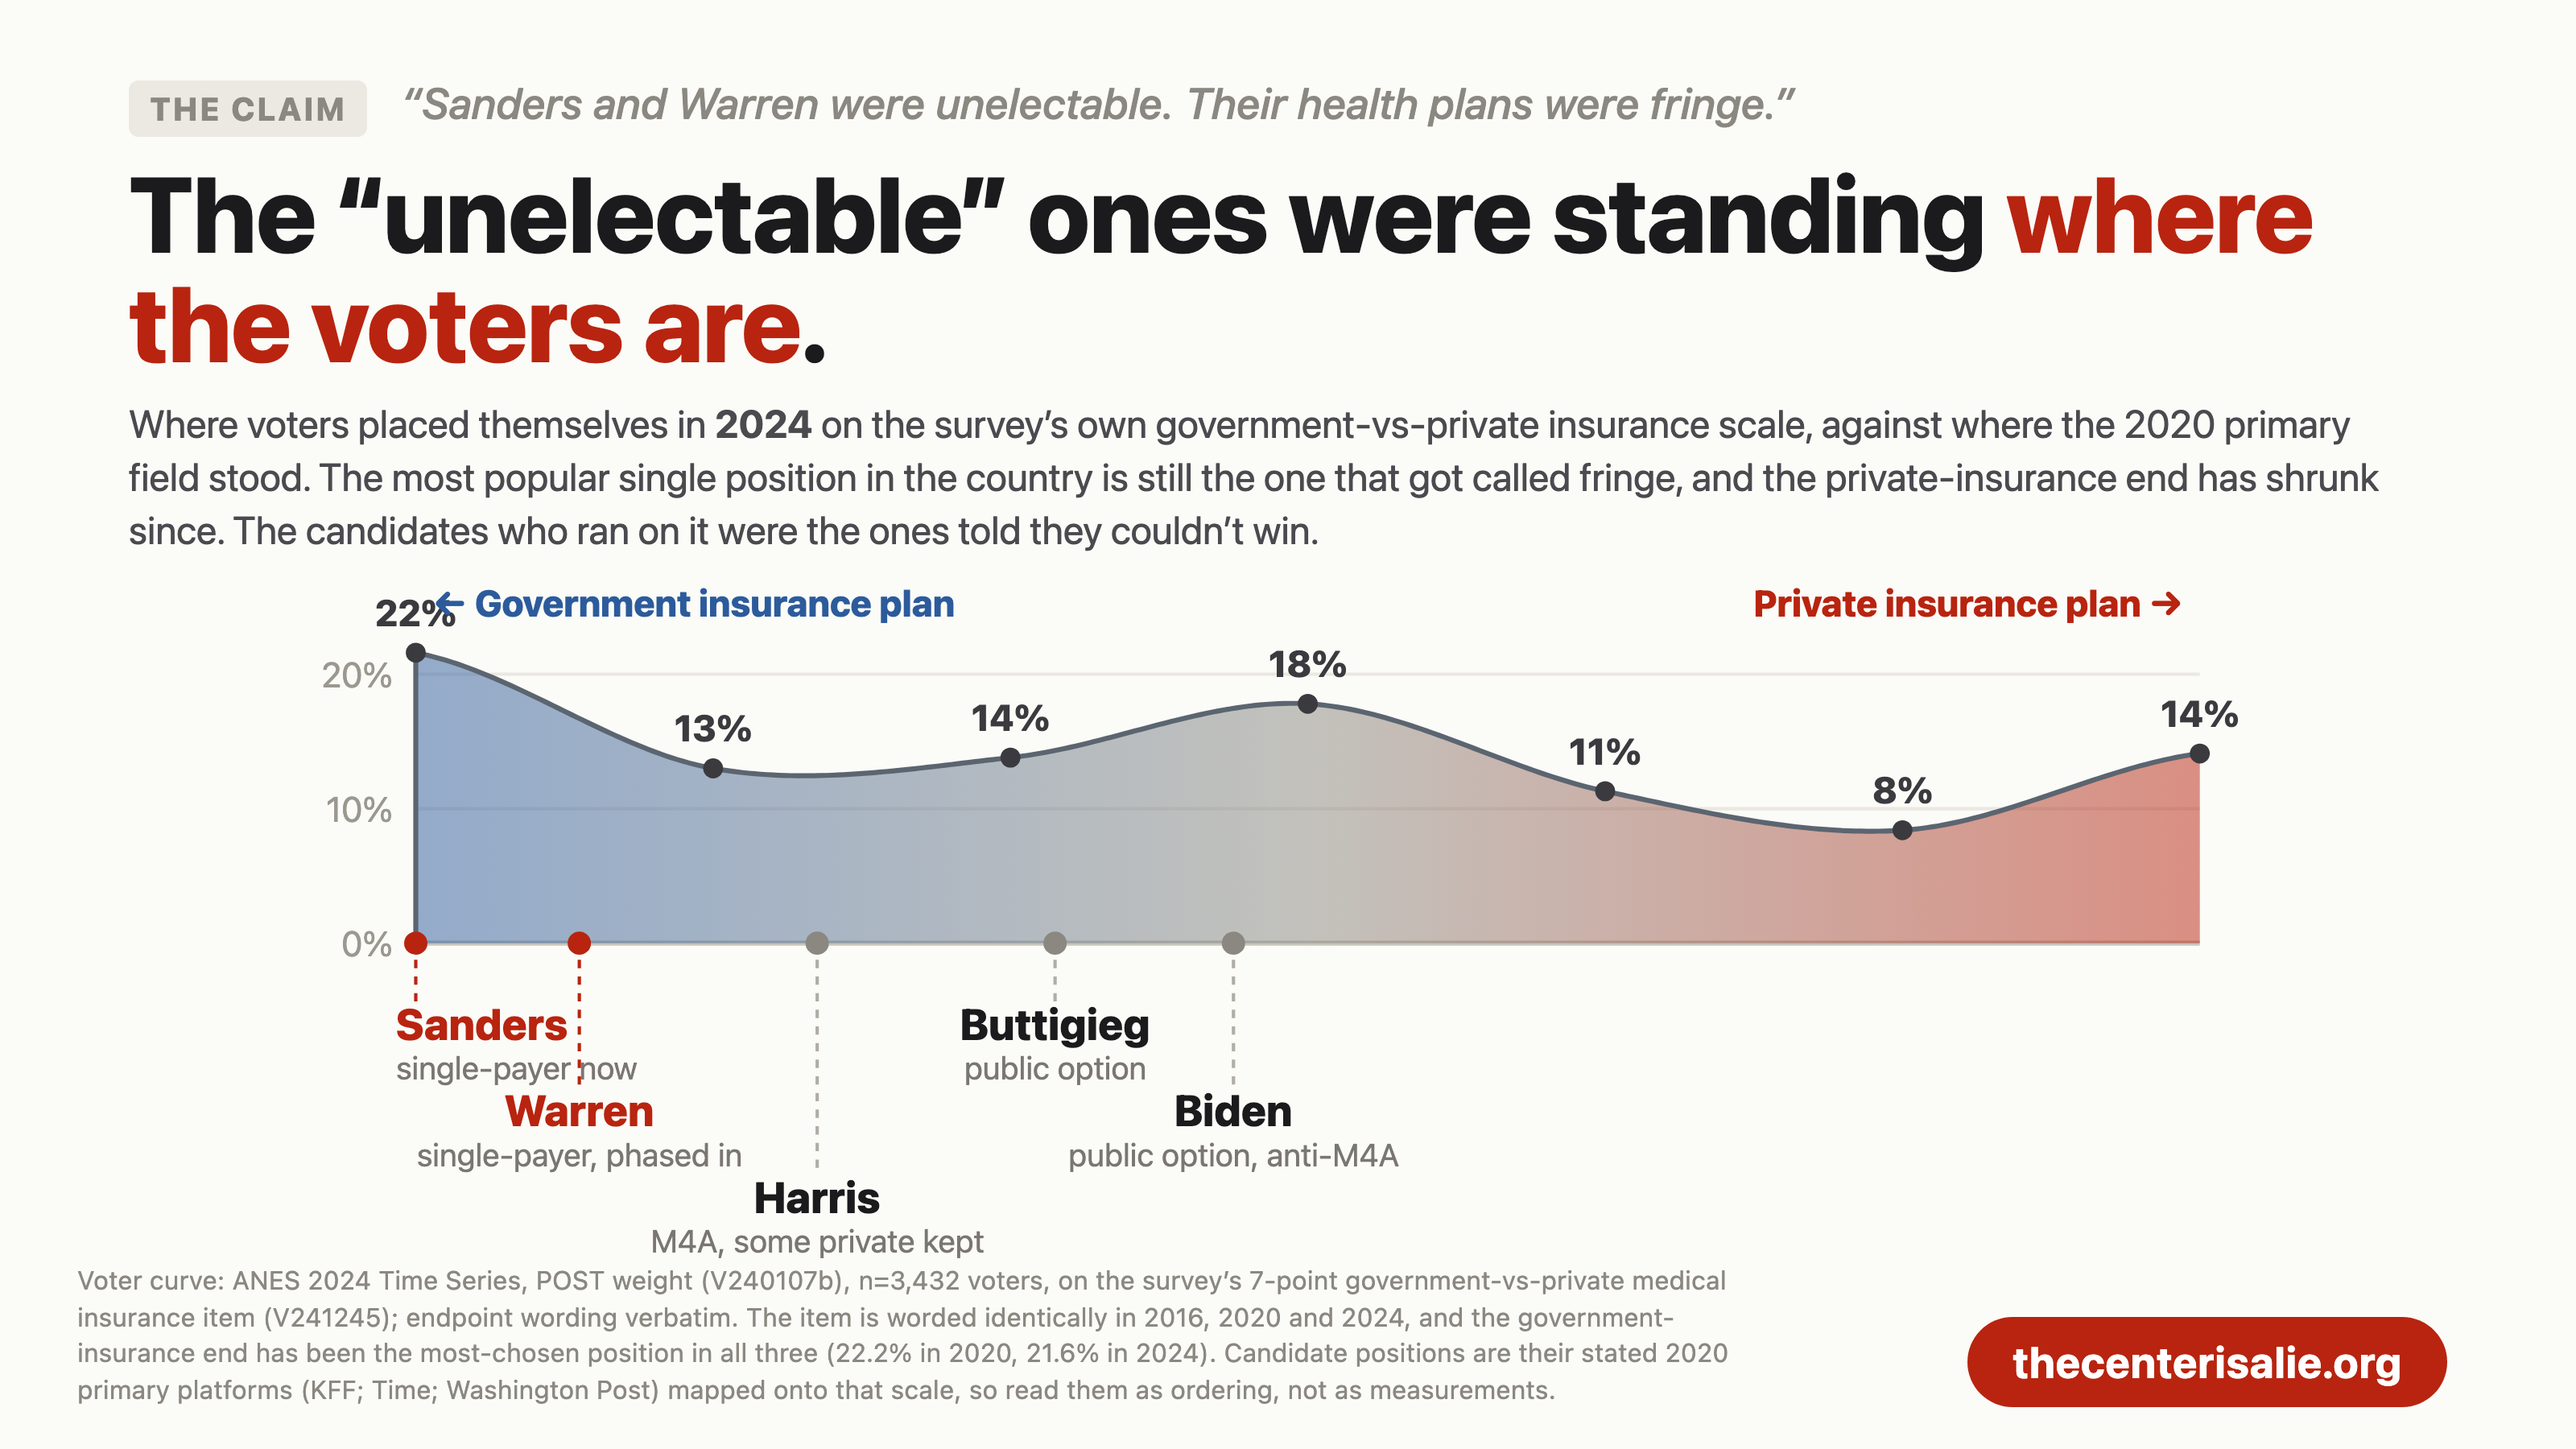
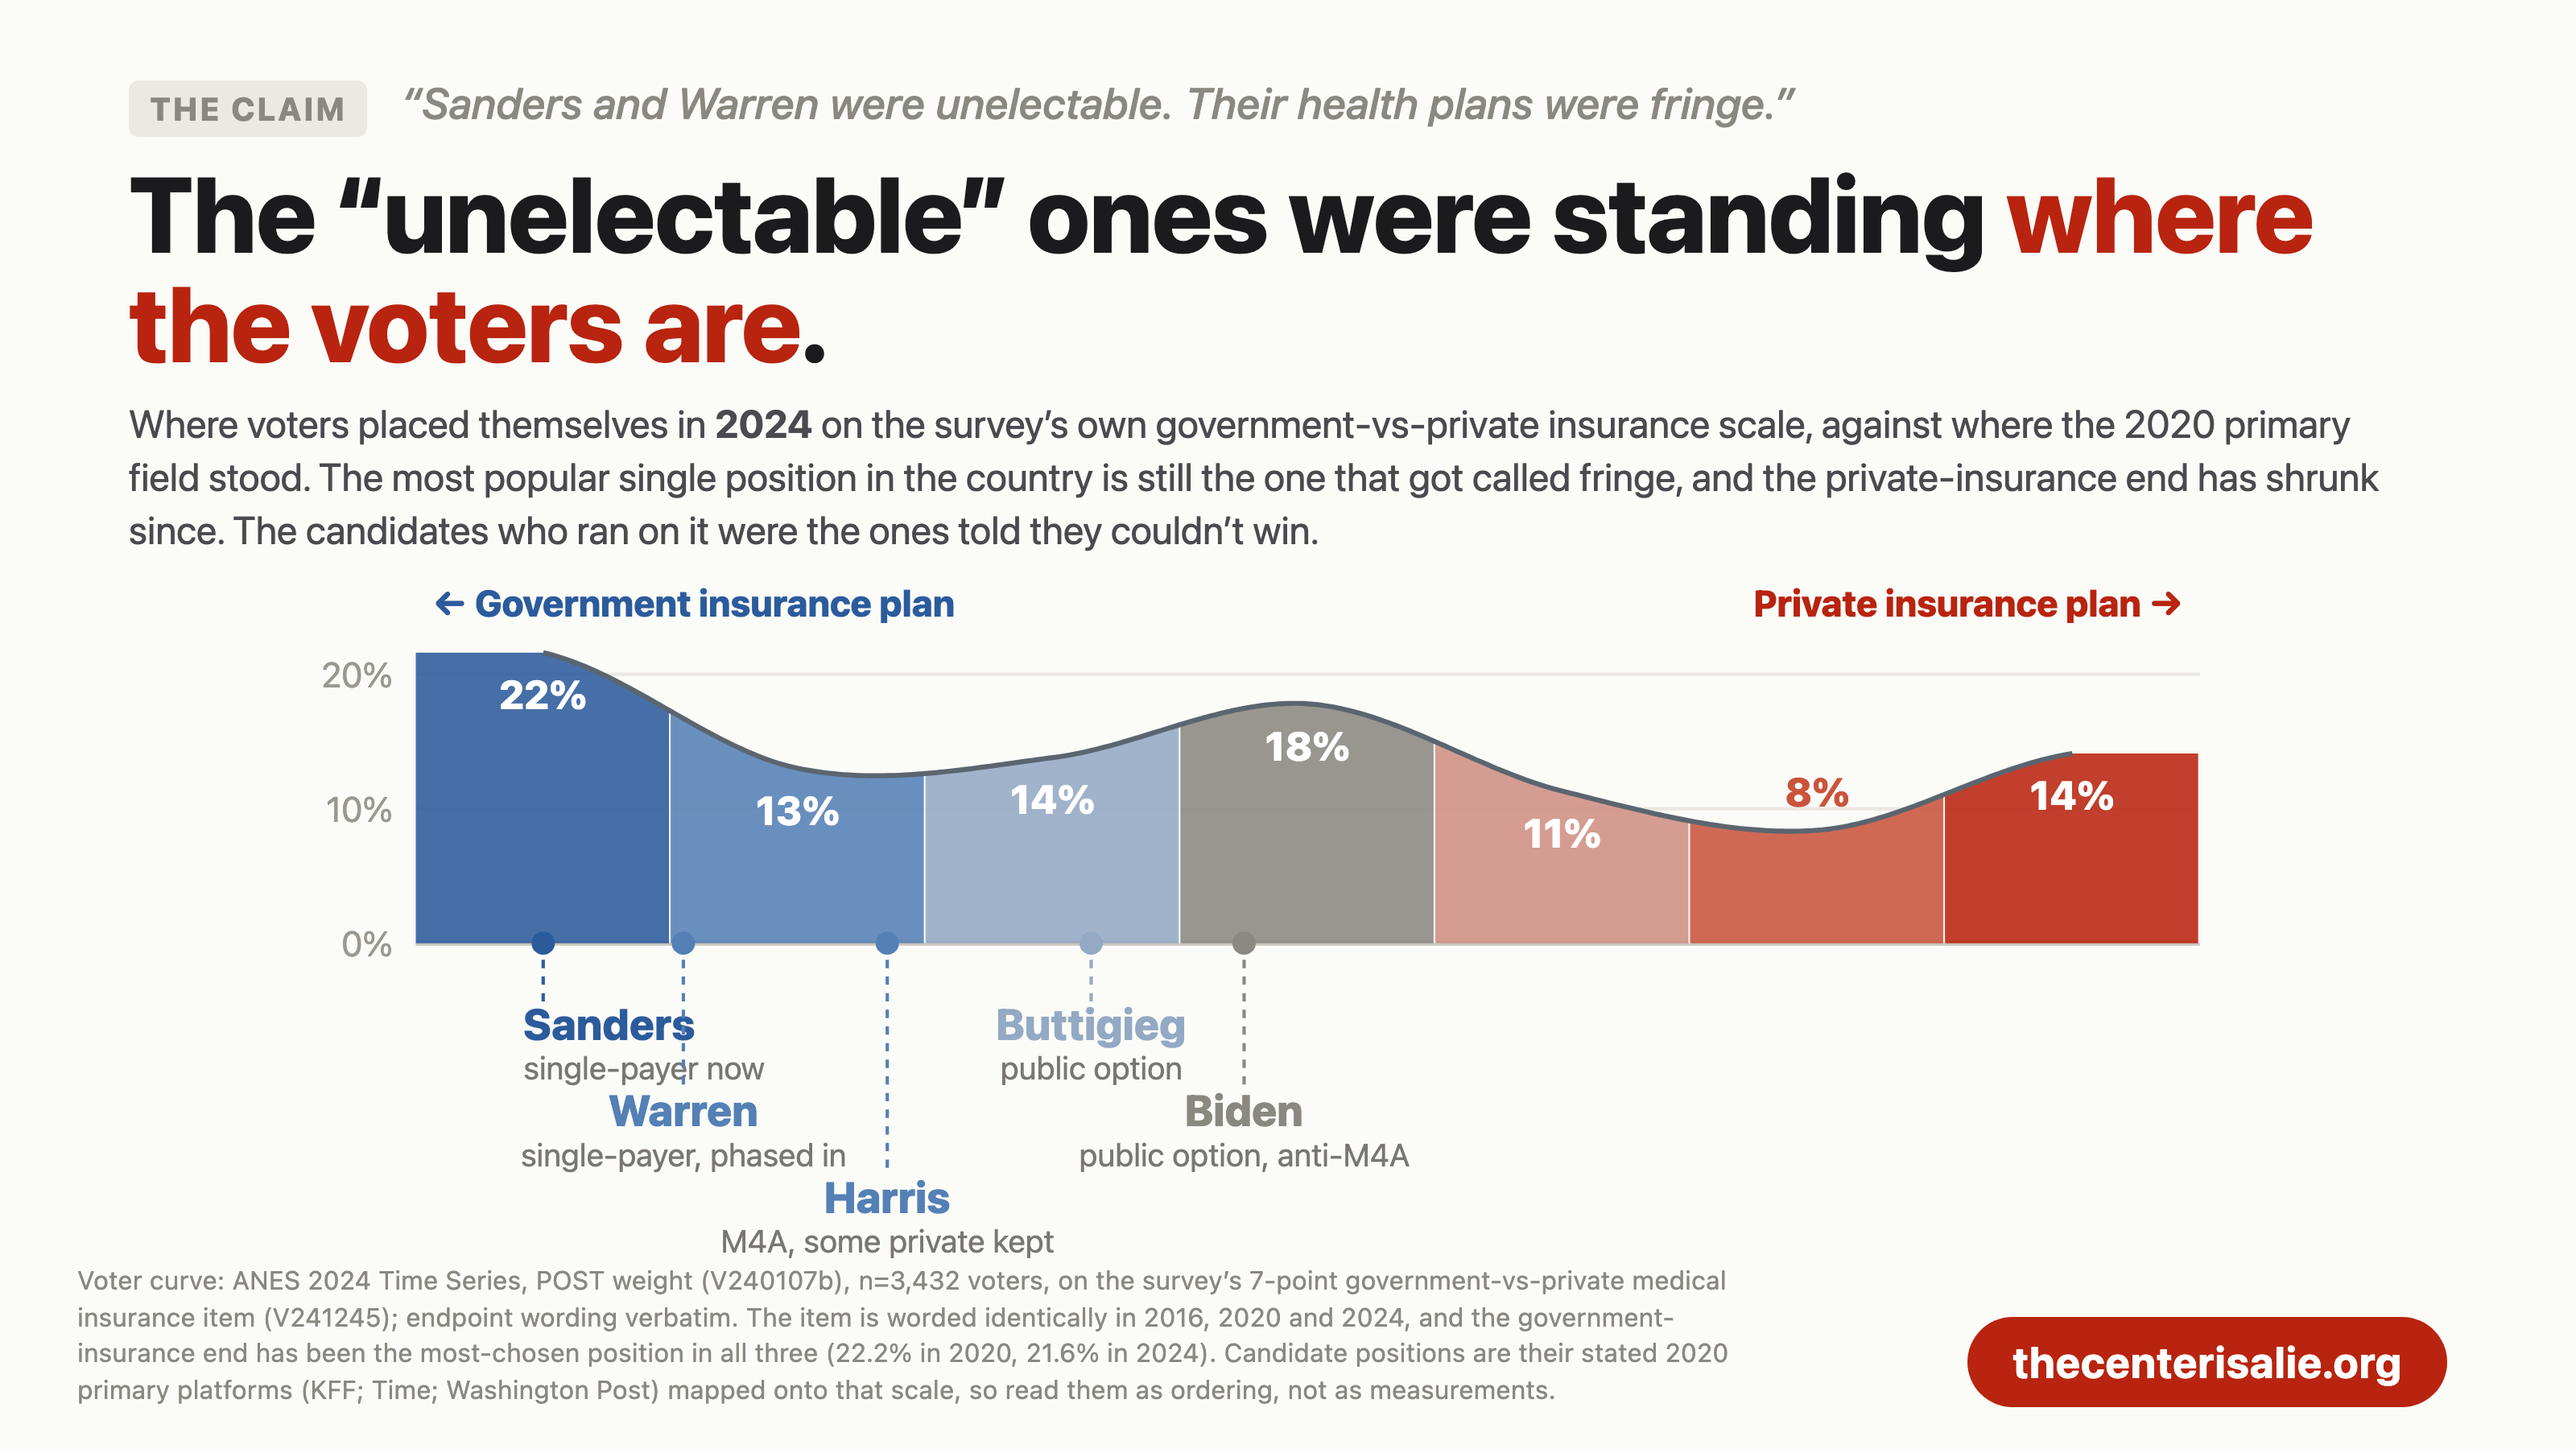
fix(og): m4a bands carry proportional area; candidates coloured by position
Two fixes. Sanders and Warren were marked in red while sitting at the
government-insurance end, which inverted the deck's own colour logic; every
candidate is now coloured by where they sit on the scale.

More importantly the curve was drawn as one continuous area, so position 1 read
as the end of a line rather than as 22% of people. It is now seven equal-width
bands, one per scale point, so the ink under each band is proportional to that
band's share of voters and Sanders visibly stands on the largest block.

Changed region(s): [[0.125, 0.4044, 0.875, 0.8089], [0.1562, 0.6844, 0.4062, 0.8711]]

diff --git a/web/og-cards/chart-m4a.html b/web/og-cards/chart-m4a.html
@@ -23,8 +23,12 @@
 
     // Weighted % of 2024 voters at each point of the 7-pt scale.
     const V = [21.6, 13.0, 13.8, 17.8, 11.3, 8.4, 14.1];
+    // scale position -> colour: government end blue, private end red
+    const C = ['#2c5b9c', '#5480b5', '#93a9c4', '#8a8880', '#cf9083', '#c9543c', '#b8240f'];
     const X0 = 96, X1 = 1168, TOP = 30, BOT = 232, VMAX = 25;
-    const px = (p) => X0 + (p - 1) / 6 * (X1 - X0);
+    // domain 0.5..7.5 so all seven bands are the same width and each band's
+    // AREA is its share of voters, rather than point 1 reading as an endpoint
+    const px = (p) => X0 + (p - 0.5) / 7 * (X1 - X0);
     const y = (v) => BOT - (v / VMAX) * (BOT - TOP);
 
     [0, 10, 20].forEach((v) => {
@@ -33,47 +37,47 @@
       txt({ x: X0 - 14, y: y(v) + 8, 'text-anchor': 'end', fill: '#9a988f', 'font-size': 21 }, v + '%');
     });
 
-    // smooth area through the seven measured points (Catmull-Rom)
     const cr = (t) => {
       if (t <= 1) return V[0]; if (t >= 7) return V[6];
       const i = Math.floor(t) - 1, f = t - Math.floor(t);
       const P0 = V[Math.max(0, i - 1)], P1 = V[i], P2 = V[i + 1], P3 = V[Math.min(6, i + 2)];
       return 0.5 * (2 * P1 + (-P0 + P2) * f + (2 * P0 - 5 * P1 + 4 * P2 - P3) * f * f + (-P0 + 3 * P1 - 3 * P2 + P3) * f * f * f);
     };
-    let d = `M ${px(1)} ${BOT}`;
-    for (let t = 1; t <= 7.0001; t += 0.02) d += ` L ${px(t)} ${y(cr(t))}`;
-    d += ` L ${px(7)} ${BOT} Z`;
-    const grad = document.createElementNS(NS, 'linearGradient');
-    grad.setAttribute('id', 'g'); grad.setAttribute('x1', '0'); grad.setAttribute('x2', '1');
-    grad.innerHTML = '<stop offset="0%" stop-color="#2c5b9c"/><stop offset="50%" stop-color="#8a8880"/><stop offset="100%" stop-color="#b8240f"/>';
-    svg.appendChild(grad);
-    svg.appendChild(el('path', { d, fill: 'url(#g)', 'fill-opacity': 0.5 }));
-    svg.appendChild(el('path', { d: d.replace(` L ${px(7)} ${BOT} Z`, ''), fill: 'none', stroke: '#5b6570', 'stroke-width': 3 }));
 
-    // measured points
+    // one filled band per scale point: equal width, height = the curve, so the
+    // ink under each band is proportional to that band's share of voters
     V.forEach((v, i) => {
-      svg.appendChild(el('circle', { cx: px(i + 1), cy: y(v), r: 6, fill: '#3a3a3f' }));
-      txt({ x: px(i + 1), y: y(v) - 16, 'text-anchor': 'middle', fill: '#3a3a3f', 'font-size': 22, 'font-weight': 800 }, v.toFixed(0) + '%');
+      const a = i + 0.5, b = i + 1.5;
+      let d = `M ${px(a)} ${BOT}`;
+      for (let t = a; t <= b + 0.0001; t += 0.02) d += ` L ${px(t)} ${y(cr(t))}`;
+      d += ` L ${px(b)} ${BOT} Z`;
+      svg.appendChild(el('path', { d, fill: C[i], 'fill-opacity': 0.88 }));
+      svg.appendChild(el('line', { x1: px(b), y1: BOT, x2: px(b), y2: y(cr(b)), stroke: '#fbfbf8', 'stroke-width': 2 }));
+      const tall = (BOT - y(v)) > 70;
+      txt({ x: px(i + 1), y: tall ? y(v) + 34 : y(v) - 14, 'text-anchor': 'middle',
+        fill: tall ? '#ffffff' : C[i], 'font-size': 24, 'font-weight': 800 }, v.toFixed(0) + '%');
     });
+    let dl = '';
+    for (let t = 1; t <= 7.0001; t += 0.02) dl += (dl ? ' L ' : 'M ') + px(t) + ' ' + y(cr(t));
+    svg.appendChild(el('path', { d: dl, fill: 'none', stroke: '#5b6570', 'stroke-width': 3 }));
 
-    // endpoint wording sits inside the plot so it can't crowd the candidate row
     txt({ x: X0 + 10, y: TOP + 6, 'text-anchor': 'start', fill: '#2c5b9c', 'font-size': 22, 'font-weight': 800 }, '\u2190 Government insurance plan');
     txt({ x: X1 - 10, y: TOP + 6, 'text-anchor': 'end', fill: '#b8240f', 'font-size': 22, 'font-weight': 800 }, 'Private insurance plan \u2192');
 
-    // the 2020 field, on the same axis
+    // the 2020 field, coloured by where they sit on the scale, not by party
     const cands = [
-      { p: 1.00, n: 'Sanders',   s: 'single-payer now',         row: 0, hot: true, an: 'start', dx: -12 },
-      { p: 1.55, n: 'Warren',    s: 'single-payer, phased in',  row: 1, hot: true },
-      { p: 2.35, n: 'Harris',    s: 'M4A, some private kept',   row: 2 },
-      { p: 3.15, n: 'Buttigieg', s: 'public option',            row: 0 },
-      { p: 3.75, n: 'Biden',     s: 'public option, anti-M4A',  row: 1 },
+      { p: 1.00, n: 'Sanders',   s: 'single-payer now',        row: 0, an: 'start', dx: -12 },
+      { p: 1.55, n: 'Warren',    s: 'single-payer, phased in', row: 1 },
+      { p: 2.35, n: 'Harris',    s: 'M4A, some private kept',  row: 2 },
+      { p: 3.15, n: 'Buttigieg', s: 'public option',           row: 0 },
+      { p: 3.75, n: 'Biden',     s: 'public option, anti-M4A', row: 1 },
     ];
     cands.forEach((c) => {
-      const x = px(c.p), yb = BOT + 58 + c.row * 52;
-      svg.appendChild(el('line', { x1: x, y1: BOT, x2: x, y2: yb - 22, stroke: c.hot ? '#b8240f' : '#b0ada4', 'stroke-width': 2, 'stroke-dasharray': '5 5' }));
-      svg.appendChild(el('circle', { cx: x, cy: BOT, r: 7, fill: c.hot ? '#b8240f' : '#8a8880' }));
+      const x = px(c.p), yb = BOT + 58 + c.row * 52, col = C[Math.min(6, Math.max(0, Math.round(c.p) - 1))];
+      svg.appendChild(el('line', { x1: x, y1: BOT, x2: x, y2: yb - 22, stroke: col, 'stroke-width': 2, 'stroke-dasharray': '5 5' }));
+      svg.appendChild(el('circle', { cx: x, cy: BOT, r: 7, fill: col }));
       const an = c.an || 'middle', lx = x + (c.dx || 0);
-      txt({ x: lx, y: yb, 'text-anchor': an, fill: c.hot ? '#b8240f' : '#1b1b1d', 'font-size': 26, 'font-weight': 800 }, c.n);
+      txt({ x: lx, y: yb, 'text-anchor': an, fill: col, 'font-size': 26, 'font-weight': 800 }, c.n);
       txt({ x: lx, y: yb + 24, 'text-anchor': an, fill: '#7a7772', 'font-size': 19 }, c.s);
     });
   </script>
